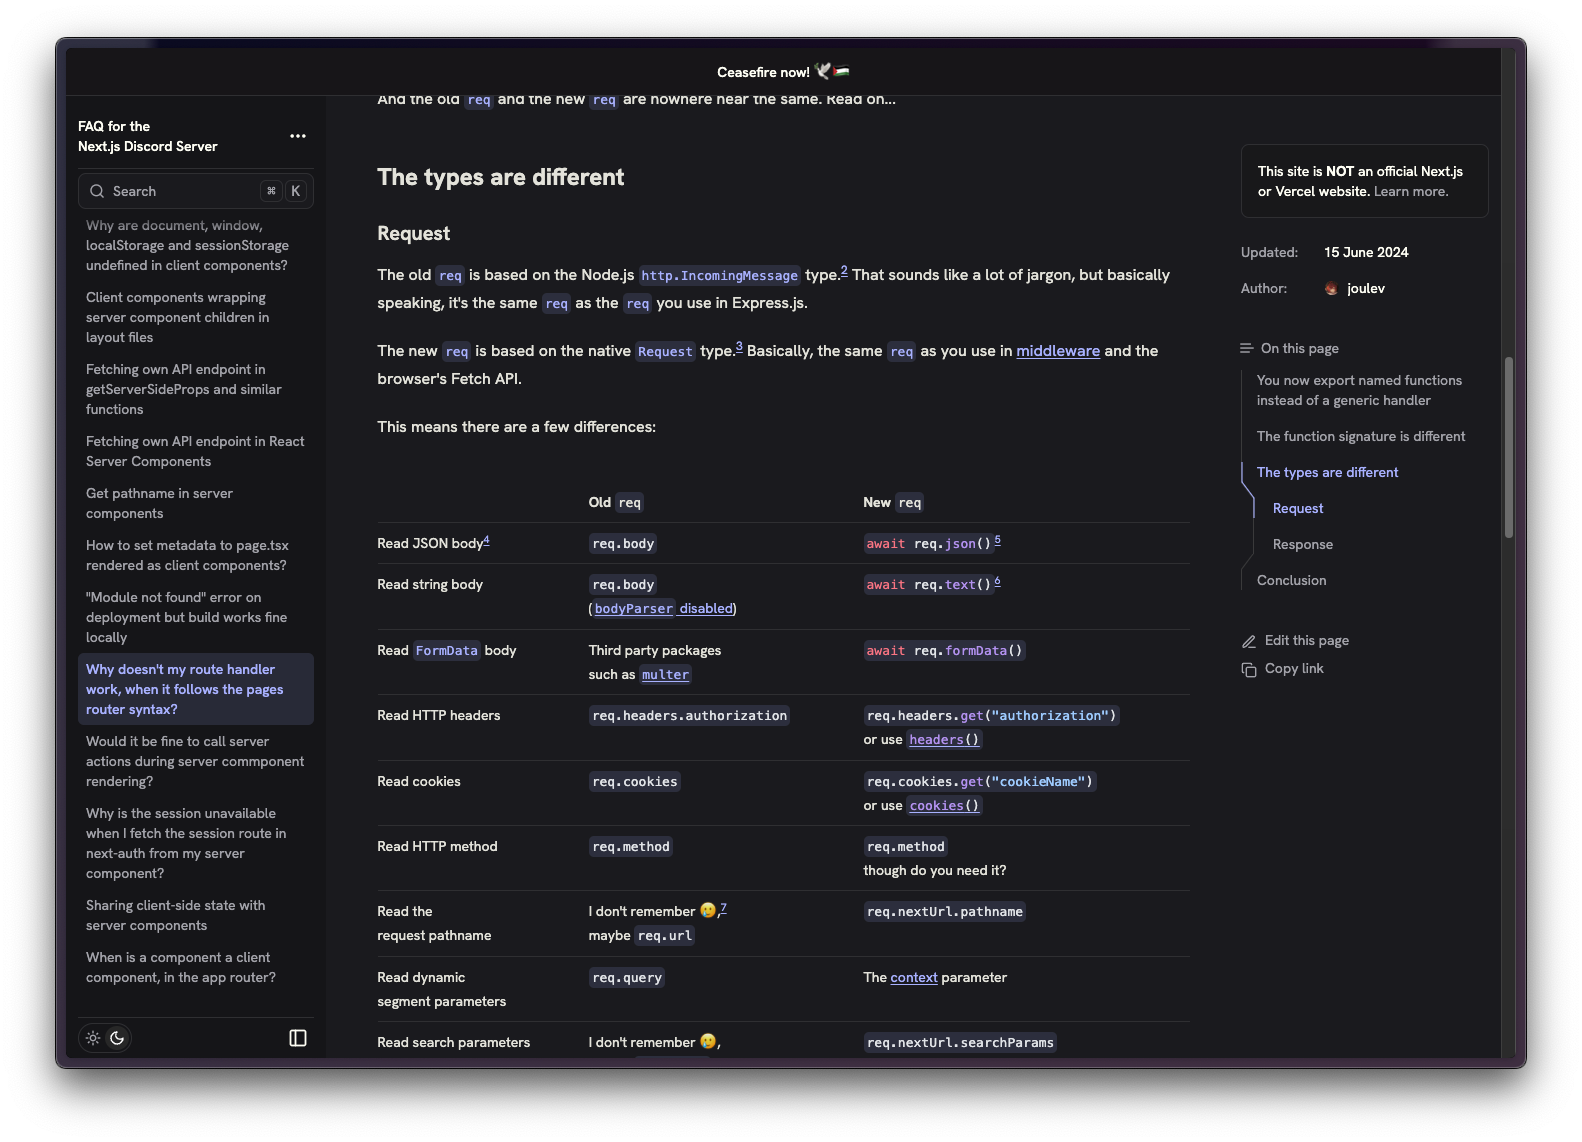
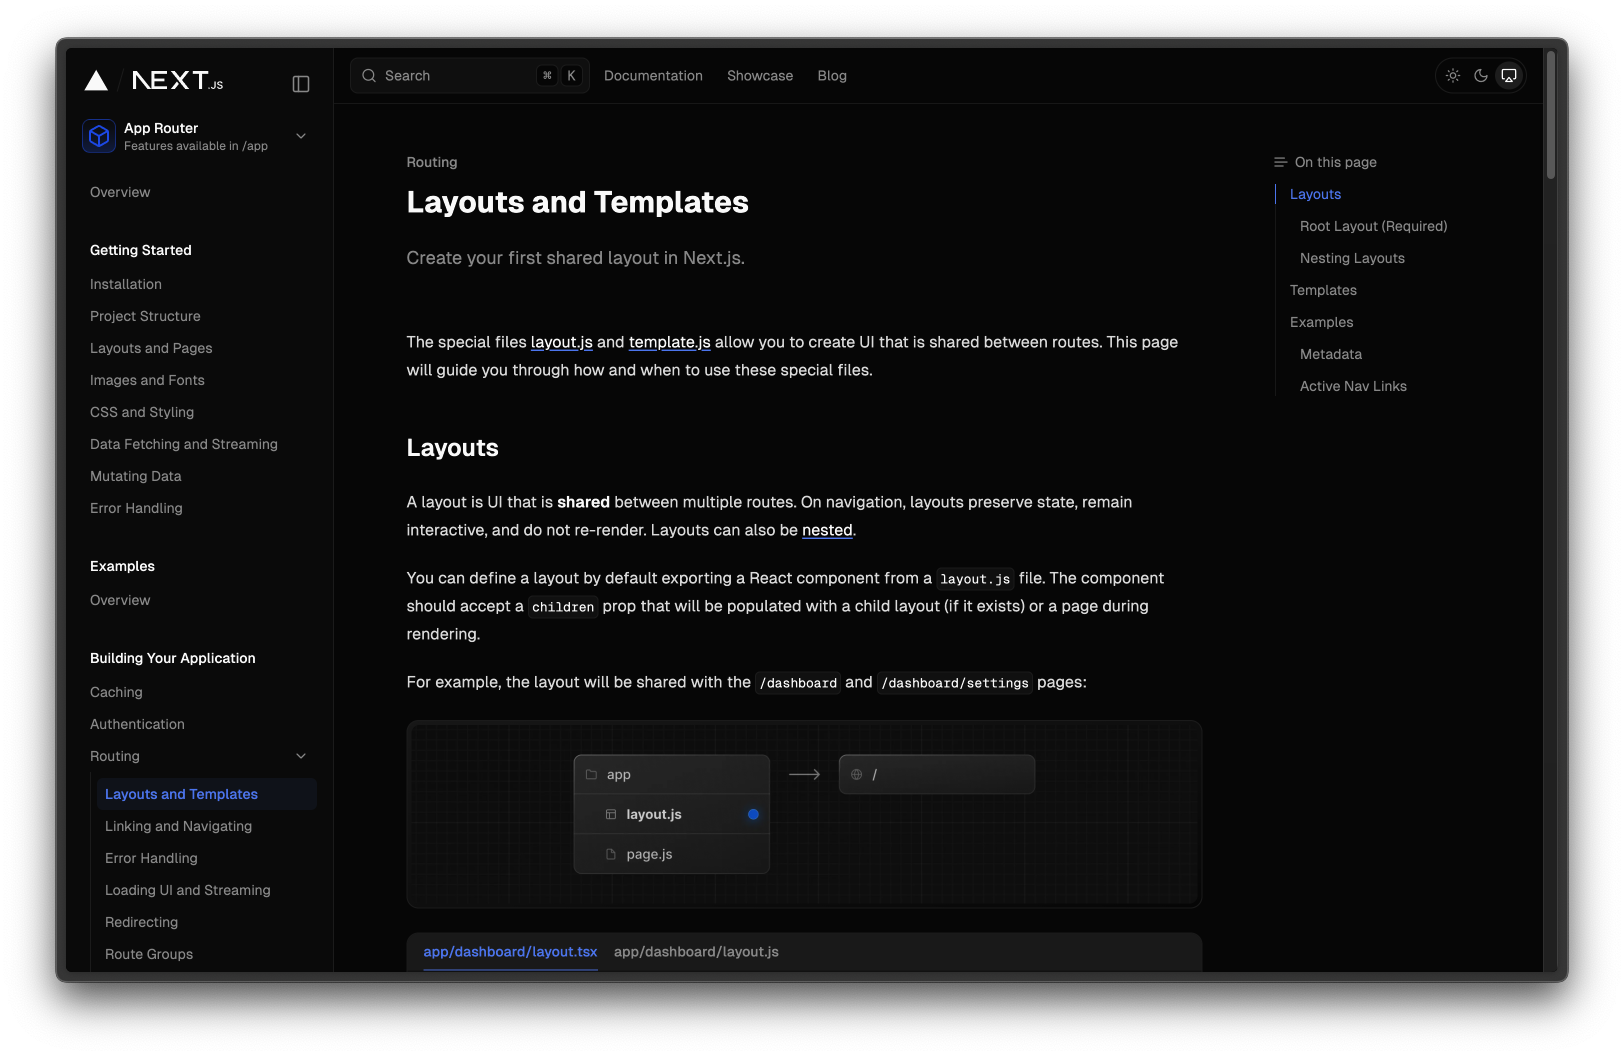
Docs: Improve landing page

diff --git a/apps/docs/app/(home)/page.tsx b/apps/docs/app/(home)/page.tsx
@@ -34,6 +34,7 @@ import {
   EarthIcon,
 } from './icons';
 import Img from './img.png';
+import ArchImg from './arch.png';
 
 const badgeVariants = cva(
   'inline-flex size-7 items-center justify-center rounded-full bg-fd-primary font-medium text-fd-primary-foreground',
@@ -45,14 +46,13 @@ export default function Page() {
 
   return (
     <>
-      <style>{`.dark { --color-fd-background: hsl(0,0%,6.5%); }`}</style>
       <div
         className="absolute inset-x-0 top-[200px] h-[250px] max-md:hidden"
         style={{
           background: `repeating-linear-gradient(to right, ${gridColor}, ${gridColor} 1px,transparent 1px,transparent 50px), repeating-linear-gradient(to bottom, ${gridColor}, ${gridColor} 1px,transparent 1px,transparent 50px)`,
         }}
       />
-      <main className="container relative max-w-[1100px] px-2 py-4 lg:py-16">
+      <main className="container relative max-w-[1100px] px-2 py-4 z-[2] lg:py-16">
         <div
           style={{
             background:
@@ -64,18 +64,10 @@ export default function Page() {
             <UwuHero />
           </div>
           <Feedback />
-          <div className="container border-x border-t py-16 md:py-24">
-            <Terminal className="mx-auto mb-2 size-8 text-fd-muted-foreground" />
-            <h2 className="text-center text-2xl font-semibold sm:text-3xl">
-              Start instantly.
-              <br />
-              Make it yours, Ship within seconds.
-            </h2>
-          </div>
           <Introduction />
-          <Why />
+          <Architecture />
           <div
-            className="container relative overflow-hidden border-x border-t py-16 sm:py-24"
+            className="relative overflow-hidden border-x border-t px-8 py-16 sm:py-24"
             style={{
               backgroundImage:
                 'radial-gradient(circle at bottom center, var(--color-fd-secondary), var(--color-fd-background))',
@@ -89,6 +81,7 @@ export default function Page() {
           </div>
           <Features />
           <Highlights />
+          <Why />
           <Contributing />
           <End />
         </div>
@@ -97,38 +90,56 @@ export default function Page() {
   );
 }
 
-function Why(): React.ReactElement {
+function Architecture() {
   return (
-    <div
-      className="container relative overflow-hidden border-x border-t px-8 pb-4 pt-12 md:pt-24"
-      style={{
-        perspective: '900px',
-      }}
-    >
-      {new Array(10).fill(0).map((_, i) => (
-        <div
-          key={i}
-          className="absolute -left-20 top-0 z-[-1] h-[1000px] max-h-[100vw] origin-top-right rotate-45 bg-gradient-to-b from-fd-primary blur-xl"
-          style={{
-            width: (Math.random() + 0.1) * 32,
-            animation: `lightray ${((i + 2) * 2).toString()}s linear infinite`,
-          }}
-        />
-      ))}
-      <style>
-        {`@keyframes lightray {
-        from {
-        transform: rotate(40deg);
-        opacity: 100%;
-        }
-        to {
-        transform: rotate(-120deg);
-        opacity: 0%;
-        }
-        }`}
-      </style>
-      <h2 className="bg-gradient-to-b from-fd-foreground to-fd-foreground/40 bg-clip-text text-center text-2xl font-semibold text-transparent md:text-4xl">
-        Build docs 100x faster and easier
+    <div className="flex flex-col gap-4 border-x border-t px-8 py-16 md:py-24 lg:flex-row md:px-16">
+      <div className="shrink-0 flex-1 font-mono text-start">
+        <p className="px-2 py-1 text-sm bg-fd-primary text-fd-primary-foreground font-medium w-fit mb-4">
+          Designed with Love
+        </p>
+        <h2 className="text-xl font-medium mb-4 sm:text-2xl">
+          One framework to solve three problems.
+        </h2>
+        <p className="text-sm text-fd-muted-foreground mb-6">
+          Fumadocs makes it easy to build beautiful docs, and bring the power to
+          transform content into data, on Next.js.
+          <br />
+          Every part is handled with love - incredibly flexible and
+          customisable.
+        </p>
+        <div className="flex flex-row items-center -mx-4">
+          <a
+            href="https://github.com/fuma-nama/fumadocs-basehub"
+            rel="noreferrer noopener"
+            target="_blank"
+            className={cn(buttonVariants({ variant: 'link' }))}
+          >
+            BaseHub CMS example
+          </a>
+          <a
+            href="https://github.com/fuma-nama/fumadocs-sanity"
+            rel="noreferrer noopener"
+            target="_blank"
+            className={cn(buttonVariants({ variant: 'link' }))}
+          >
+            Sanity example
+          </a>
+        </div>
+      </div>
+      <Image
+        src={ArchImg}
+        alt="Architecture"
+        className="md:-mt-20 ms-auto w-full max-w-[450px] invert dark:invert-0"
+      />
+    </div>
+  );
+}
+
+function Why() {
+  return (
+    <div className="relative overflow-hidden border-x border-t px-8 py-12 md:px-16 md:pt-24 md:min-h-[800px]">
+      <h2 className="bg-gradient-to-b from-fd-foreground to-fd-foreground/40 bg-clip-text text-center text-3xl font-semibold text-transparent md:text-4xl">
+        Build docs <span className="max-md:hidden">100x faster and</span> easier
         <p className="max-md:hidden">with Fumadocs</p>
       </h2>
       <p className="mt-4 text-center text-fd-foreground/50">
@@ -440,9 +451,9 @@ function Highlight({
   );
 }
 
-function Hero(): React.ReactElement {
+function Hero() {
   return (
-    <div className="container relative z-[2] flex flex-col overflow-hidden border-x border-t bg-fd-background px-6 pt-12 max-md:text-center md:px-12 md:pt-16 [.uwu_&]:hidden">
+    <div className="relative z-[2] flex flex-col overflow-hidden border-x border-t bg-fd-background px-6 pt-12 max-md:text-center md:px-12 md:pt-16 [.uwu_&]:hidden">
       <h1 className="mb-8 text-4xl font-medium md:hidden">Build Your Docs</h1>
       <h1 className="mb-8 max-w-[600px] text-4xl font-medium max-md:hidden">
         Build excellent documentation site with less effort
@@ -480,17 +491,15 @@ function Hero(): React.ReactElement {
       <Image
         src={Img}
         alt="preview"
-        className="mb-[-250px] mt-8 min-w-[800px] select-none duration-1000 animate-in fade-in slide-in-from-bottom-12 md:mb-[-370px] md:min-w-[1100px]"
+        className="mb-[-250px] mt-12 min-w-[800px] select-none duration-1000 animate-in fade-in slide-in-from-bottom-12 md:mb-[-340px] md:min-w-[1100px]"
         priority
       />
       <div
         className="absolute inset-0 z-[-1]"
         style={{
           backgroundImage: [
-            'radial-gradient(ellipse at top, transparent 60%, hsla(250,90%,90%,0.2))',
-            'linear-gradient(to bottom, transparent 30%, color-mix(in oklab, var(--color-fd-primary) 20%, transparent))',
-            'linear-gradient(to bottom, var(--color-fd-background) 40%, transparent)',
-            'repeating-linear-gradient(45deg, transparent,transparent 60px, var(--color-fd-primary) 61px, transparent 62px)',
+            'radial-gradient(ellipse at top, transparent 80%, color-mix(in oklab, var(--color-fd-primary) 10%, transparent))',
+            'linear-gradient(to bottom, var(--color-fd-background) 80%, transparent)',
           ].join(', '),
         }}
       />

diff --git a/apps/docs/app/(home)/page.client.tsx b/apps/docs/app/(home)/page.client.tsx
@@ -225,12 +225,12 @@ export function WhyInteractive(props: {
       <div className="flex-1">
         {active === 0 ? (
           <WhyPanel>
-            <h3 className="mb-2 text-lg font-semibold">
+            <h3 className="mb-2 text-lg font-medium">
               Implementing search is difficult, we made it simple.
             </h3>
             <p>
-              Fumadocs offers native support for <b>Orama</b> and{' '}
-              <b>Algolia Search</b>, it is as easy as plugging a route handler.
+              Fumadocs offers native support for Orama and Algolia Search, it is
+              as easy as plugging a route handler.
             </p>
             {props.codeblockSearchRouter}
             <p className="mb-4 text-fd-muted-foreground">
@@ -256,7 +256,7 @@ export function WhyInteractive(props: {
 
         {active === 1 ? (
           <WhyPanel>
-            <h3 className="mb-2 text-lg font-semibold">Tailwind CSS Plugin</h3>
+            <h3 className="mb-2 text-lg font-medium">Tailwind CSS Plugin</h3>
             <p>
               Share the same design system cross the docs and your app with
               Tailwind CSS. Works great with <b>Shadcn UI</b>.
@@ -273,7 +273,7 @@ export function WhyInteractive(props: {
 
         {active === 2 ? (
           <WhyPanel>
-            <h3 className="mb-2 text-lg font-semibold">
+            <h3 className="mb-2 text-lg font-medium">
               From the source of truth, never repeat yourself again.
             </h3>
             <p>
@@ -304,7 +304,7 @@ export function WhyInteractive(props: {
         ) : null}
         {active === 3 ? (
           <WhyPanel>
-            <h3 className="mb-2 text-lg font-semibold">
+            <h3 className="mb-2 text-lg font-medium">
               Interactive docs with React.
             </h3>
             <p>
@@ -322,7 +322,7 @@ export function WhyInteractive(props: {
         ) : null}
         {active === 4 ? (
           <WhyPanel>
-            <h3 className="mb-2 text-lg font-semibold">
+            <h3 className="mb-2 text-lg font-medium">
               Connect your content and server.
             </h3>
 
@@ -337,7 +337,7 @@ export function WhyInteractive(props: {
         ) : null}
         {active === 5 ? (
           <WhyPanel>
-            <h3 className="mb-2 text-lg font-semibold">
+            <h3 className="mb-2 text-lg font-medium">
               Your own content source, search solution, everything.
             </h3>
             <p>
@@ -369,7 +369,7 @@ function WhyPanel(props: HTMLProps<HTMLDivElement>) {
     <div
       {...props}
       className={cn(
-        'duration-700 animate-in fade-in slide-in-from-bottom-8',
+        'duration-700 animate-in fade-in slide-in-from-bottom-8 text-sm',
         props.className,
       )}
     >

diff --git a/apps/docs/app/(home)/layout.tsx b/apps/docs/app/(home)/layout.tsx
@@ -2,20 +2,16 @@ import type { ReactNode } from 'react';
 import { HomeLayout } from 'fumadocs-ui/layouts/home';
 import { baseOptions } from '@/app/layout.config';
 
-export default function Layout({
-  children,
-}: {
-  children: ReactNode;
-}): React.ReactElement {
+export default function Layout({ children }: { children: ReactNode }) {
   return (
-    <HomeLayout {...baseOptions}>
+    <HomeLayout {...baseOptions} className="dark:bg-neutral-950">
       {children}
       <Footer />
     </HomeLayout>
   );
 }
 
-function Footer(): React.ReactElement {
+function Footer() {
   return (
     <footer className="mt-auto border-t bg-fd-card py-12 text-fd-secondary-foreground">
       <div className="container flex flex-col gap-4 sm:flex-row sm:items-end sm:justify-between">

diff --git a/apps/docs/app/(home)/docs/page.tsx b/apps/docs/app/(home)/docs/page.tsx
@@ -7,7 +7,7 @@ import Spot from '@/public/spot.png';
 
 export default function DocsPage(): React.ReactElement {
   return (
-    <main className="container flex flex-col items-center py-16 text-center">
+    <main className="container flex flex-col items-center py-16 text-center z-[2]">
       <div className="absolute inset-0 z-[-1] overflow-hidden duration-1000 animate-in fade-in [perspective:2000px]">
         <div
           className="absolute bottom-[20%] left-1/2 size-[1200px] origin-bottom bg-fd-primary/30 opacity-30"
@@ -91,10 +91,10 @@ function Item(
   return (
     <Link
       {...props}
-      className="rounded-2xl border border-transparent p-6 shadow-lg transition-all hover:shadow-fd-primary/20"
+      className="rounded-2xl border border-transparent p-6 shadow-lg"
       style={{
         backgroundImage:
-          'linear-gradient(to right bottom, var(--color-fd-background) 10%, hsl(var(--accent)), var(--color-fd-background) 60%),' +
+          'linear-gradient(to right bottom, var(--color-fd-background) 10%, var(--color-fd-accent), var(--color-fd-background) 60%),' +
           'linear-gradient(to right bottom, rgb(40,40,40) 10%, rgb(180,180,180), rgb(30,30,30) 60%)',
         backgroundOrigin: 'border-box',
         backgroundClip: 'padding-box, border-box',

diff --git a/apps/docs/app/(home)/icons.tsx b/apps/docs/app/(home)/icons.tsx
@@ -294,7 +294,7 @@ export function EarthIcon(props: SVGProps<SVGSVGElement>): React.ReactElement {
           gradientUnits="userSpaceOnUse"
         >
           <stop stopColor="rgba(255,255,255,0)" />
-          <stop offset="0.5" stopColor="rgba(200,200,255,0.2)" />
+          <stop offset="0.5" stopColor="rgba(255,255,255,0.2)" />
           <stop offset="1" stopColor="rgba(255,255,255,0)" />
         </linearGradient>
       </defs>

diff --git a/apps/docs/app/(home)/showcase/page.tsx b/apps/docs/app/(home)/showcase/page.tsx
@@ -150,7 +150,7 @@ export default function Showcase(): React.ReactElement {
   ];
 
   return (
-    <main className="pb-16">
+    <main className="pb-16 z-[2]">
       <div className="absolute inset-0 z-[-1] select-none overflow-hidden opacity-30">
         <Image
           alt="spot"

diff --git a/apps/docs/app/(home)/sponsors/page.tsx b/apps/docs/app/(home)/sponsors/page.tsx
@@ -17,7 +17,7 @@ export default async function Page() {
   ]);
 
   return (
-    <main className="container flex flex-col items-center py-16 text-center">
+    <main className="container flex flex-col items-center py-16 text-center z-[2]">
       <div
         className="absolute inset-0 z-[-1]"
         style={{

diff --git a/packages/ui/src/layouts/docs/sidebar.tsx b/packages/ui/src/layouts/docs/sidebar.tsx
@@ -517,7 +517,7 @@ function Border({ level, active }: { level: number; active?: boolean }) {
   return (
     <div
       className={cn(
-        'absolute w-px inset-y-1.5 z-[2] start-3',
+        'absolute w-px inset-y-2 z-[2] start-3',
         active && 'bg-fd-primary',
       )}
     />